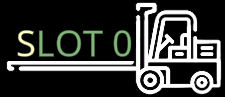
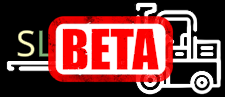
Working version

diff --git a/src/PressAnyKeyScreen_OnWorkModeChanged__Patch.cs b/src/PressAnyKeyScreen_OnWorkModeChanged__Patch.cs
@@ -1,27 +1,27 @@
-using HarmonyLib;
-using MGSC;
-using System;
-using System.Collections.Generic;
-using sd = System.Diagnostics;
-using System.Linq;
-using System.Text;
-using System.Threading.Tasks;
-using UnityEngine;
+//using HarmonyLib;
+//using MGSC;
+//using System;
+//using System.Collections.Generic;
+//using sd = System.Diagnostics;
+//using System.Linq;
+//using System.Text;
+//using System.Threading.Tasks;
+//using UnityEngine;
 
-namespace QM_AutoLoadGame
-{
-    [HarmonyPatch(typeof(PressAnyKeyScreen), nameof(PressAnyKeyScreen.OnWorkModeChanged))]
-    internal static class PressAnyKeyScreen_OnWorkModeChanged__Patch
-    {
-        public static void Postfix(PressAnyKeyScreen __instance)
-        {
-            if(__instance._modeChanged)
-            {
-                //Prevent auto load if the user clicked the screen.
-                //If the mod is autoloading, this should already be false.
-                PressAnyKeyScreen_Update__Patch.WaitingForCountdown = false;
-            }
+//namespace QM_AutoLoadGame
+//{
+//    [HarmonyPatch(typeof(PressAnyKeyScreen), nameof(PressAnyKeyScreen.OnWorkModeChanged))]
+//    internal static class PressAnyKeyScreen_OnWorkModeChanged__Patch
+//    {
+//        public static void Postfix(PressAnyKeyScreen __instance)
+//        {
+//            if(__instance._modeChanged)
+//            {
+//                //Prevent auto load if the user clicked the screen.
+//                //If the mod is autoloading, this should already be false.
+//                PressAnyKeyScreen_Update__Patch.WaitingForCountdown = false;
+//            }
 
-        }
-    }
-}
+//        }
+//    }
+//}

diff --git a/src/ManageSavesScreen_Update__Patch.cs b/src/ManageSavesScreen_Update__Patch.cs
@@ -1,27 +1,27 @@
-using HarmonyLib;
-using MGSC;
-using System;
-using System.Collections.Generic;
-using System.Diagnostics;
-using System.Linq;
-using System.Text;
-using System.Threading.Tasks;
+//using HarmonyLib;
+//using MGSC;
+//using System;
+//using System.Collections.Generic;
+//using System.Diagnostics;
+//using System.Linq;
+//using System.Text;
+//using System.Threading.Tasks;
 
-namespace QM_AutoLoadGame
-{
-    [HarmonyPatch(typeof(ManageSavesScreen), nameof(ManageSavesScreen.Update))]
-    internal static class ManageSavesScreen_Update__Patch
-    {
-        public static bool Prefix(ManageSavesScreen __instance)
-        {
-            if (!PressAnyKeyScreen_Update__Patch.AutoLoad)
-            {
-                return true;
-            }
+//namespace QM_AutoLoadGame
+//{
+//    [HarmonyPatch(typeof(ManageSavesScreen), nameof(ManageSavesScreen.Update))]
+//    internal static class ManageSavesScreen_Update__Patch
+//    {
+//        public static bool Prefix(ManageSavesScreen __instance)
+//        {
+//            if (!PressAnyKeyScreen_Update__Patch.AutoLoad)
+//            {
+//                return true;
+//            }
 
-            PressAnyKeyScreen_Update__Patch.AutoLoad = false;
-            __instance.SlotOnStartGame(Plugin.Config.LastLoadedSlot, false);
-            return false;
-        }
-    }
-}
+//            PressAnyKeyScreen_Update__Patch.AutoLoad = false;
+//            __instance.SlotOnStartGame(Plugin.Config.LastLoadedSlot, false);
+//            return false;
+//        }
+//    }
+//}

diff --git a/src/MainMenuScreen_Update__Patch.cs b/src/MainMenuScreen_Update__Patch.cs
@@ -1,26 +1,26 @@
-using HarmonyLib;
-using MGSC;
-using System;
-using System.Collections.Generic;
-using System.Diagnostics;
-using System.Linq;
-using System.Text;
-using System.Threading.Tasks;
+//using HarmonyLib;
+//using MGSC;
+//using System;
+//using System.Collections.Generic;
+//using System.Diagnostics;
+//using System.Linq;
+//using System.Text;
+//using System.Threading.Tasks;
 
-namespace QM_AutoLoadGame
-{
-    [HarmonyPatch(typeof(MainMenuScreen), nameof(MainMenuScreen.Update))]
-    internal static class MainMenuScreen_Update__Patch
-    {
-        public static bool Prefix(MainMenuScreen __instance)
-        {
-            if(!PressAnyKeyScreen_Update__Patch.AutoLoad)
-            { 
-                return true; 
-            }
+//namespace QM_AutoLoadGame
+//{
+//    [HarmonyPatch(typeof(MainMenuScreen), nameof(MainMenuScreen.Update))]
+//    internal static class MainMenuScreen_Update__Patch
+//    {
+//        public static bool Prefix(MainMenuScreen __instance)
+//        {
+//            if(!PressAnyKeyScreen_Update__Patch.AutoLoad)
+//            { 
+//                return true; 
+//            }
 
-            __instance.StartGameBtnOnClick(null, 1);
-            return false;
-        }        
-    }
-}
+//            __instance.StartGameBtnOnClick(null, 1);
+//            return false;
+//        }        
+//    }
+//}

diff --git a/src/ManageSavesScreen_SlotOnStartGame__Patch.cs b/src/ManageSavesScreen_SlotOnStartGame__Patch.cs
@@ -1,22 +1,22 @@
-using HarmonyLib;
-using MGSC;
-using System;
-using System.Collections.Generic;
-using System.Diagnostics;
-using System.Linq;
-using System.Text;
-using System.Threading.Tasks;
+//using HarmonyLib;
+//using MGSC;
+//using System;
+//using System.Collections.Generic;
+//using System.Diagnostics;
+//using System.Linq;
+//using System.Text;
+//using System.Threading.Tasks;
 
-namespace QM_AutoLoadGame
-{
-    [HarmonyPatch(typeof(ManageSavesScreen), nameof(ManageSavesScreen.SlotOnStartGame))]
-    internal static class ManageSavesScreen_SlotOnStartGame__Patch
-    {
-        public static void Prefix(int gameSlot)
-        {
-            Plugin.Config.LastLoadedSlot = gameSlot;
-            Plugin.Config.SaveConfig();
-        }
-    }
-}
+//namespace QM_AutoLoadGame
+//{
+//    [HarmonyPatch(typeof(ManageSavesScreen), nameof(ManageSavesScreen.SlotOnStartGame))]
+//    internal static class ManageSavesScreen_SlotOnStartGame__Patch
+//    {
+//        public static void Prefix(int gameSlot)
+//        {
+//            Plugin.Config.LastLoadedSlot = gameSlot;
+//            Plugin.Config.SaveConfig();
+//        }
+//    }
+//}
 

diff --git a/src/PressAnyKeyScreen_Update__Patch.cs b/src/PressAnyKeyScreen_Update__Patch.cs
@@ -64,7 +64,16 @@ namespace QM_AutoLoadGame
                 WaitingForCountdown = false;
                 AutoLoad = true;
                 __instance.gameObject.SetActive(value: false);
-                SingletonMonoBehaviour<MainMenuUI>.Instance.MainMenuScreen.Show();
+
+                //Have to show or the back button will not work.
+                //Otherwise, the main menu will have some elements loaded and cause null errors.
+                UI.Chain<MainMenuScreen>().HideAll().Show();
+                UI.Chain<ManageSavesScreen>().HideAll().Show();
+
+                ManageSavesScreen saveScreen = UI.Get<ManageSavesScreen>();
+
+                saveScreen.SlotOnStartGame(Plugin.Config.LastLoadedSlot, false);
+
                 return false;
             }
 

diff --git a/src/Properties/AssemblyInfo.cs b/src/Properties/AssemblyInfo.cs
@@ -32,4 +32,4 @@ using System.Runtime.InteropServices;
 // You can specify all the values or you can default the Build and Revision Numbers
 // by using the '*' as shown bew:
 // [assembly: AssemblyVersion("1.0.*")]
-[assembly: AssemblyVersion("1.3.1.0")]
+[assembly: AssemblyVersion("1.4.0.0")]

diff --git a/README.md b/README.md
@@ -2,6 +2,13 @@
 
 ![slot loader icon](media/SlotLoader.png)
 
+# Important!
+This is a temporary version that supports the 0.8.6 beta.  
+The non beta version *must* be uninstalled.  
+When the 0.8.6 becomes the main version, this mod will be deleted.
+
+# Docs
+
 When loading the game, the mod will automatically load the last game loaded after three seconds.
 The delay is configurable.
 
@@ -34,6 +41,9 @@ Source code is available on GitHub at https://github.com/NBKRedSpy/QM_AutoLoadGa
 [Loader icons created by Freepik - Flaticon](https://www.flaticon.com/free-icons/loader)
 
 # Change Log
+
+## 1.4.0
+* Version 0.8.6 compatibility
 
 ## 1.3.1
 * Fixed loading wrong slot (was always the first slot)
